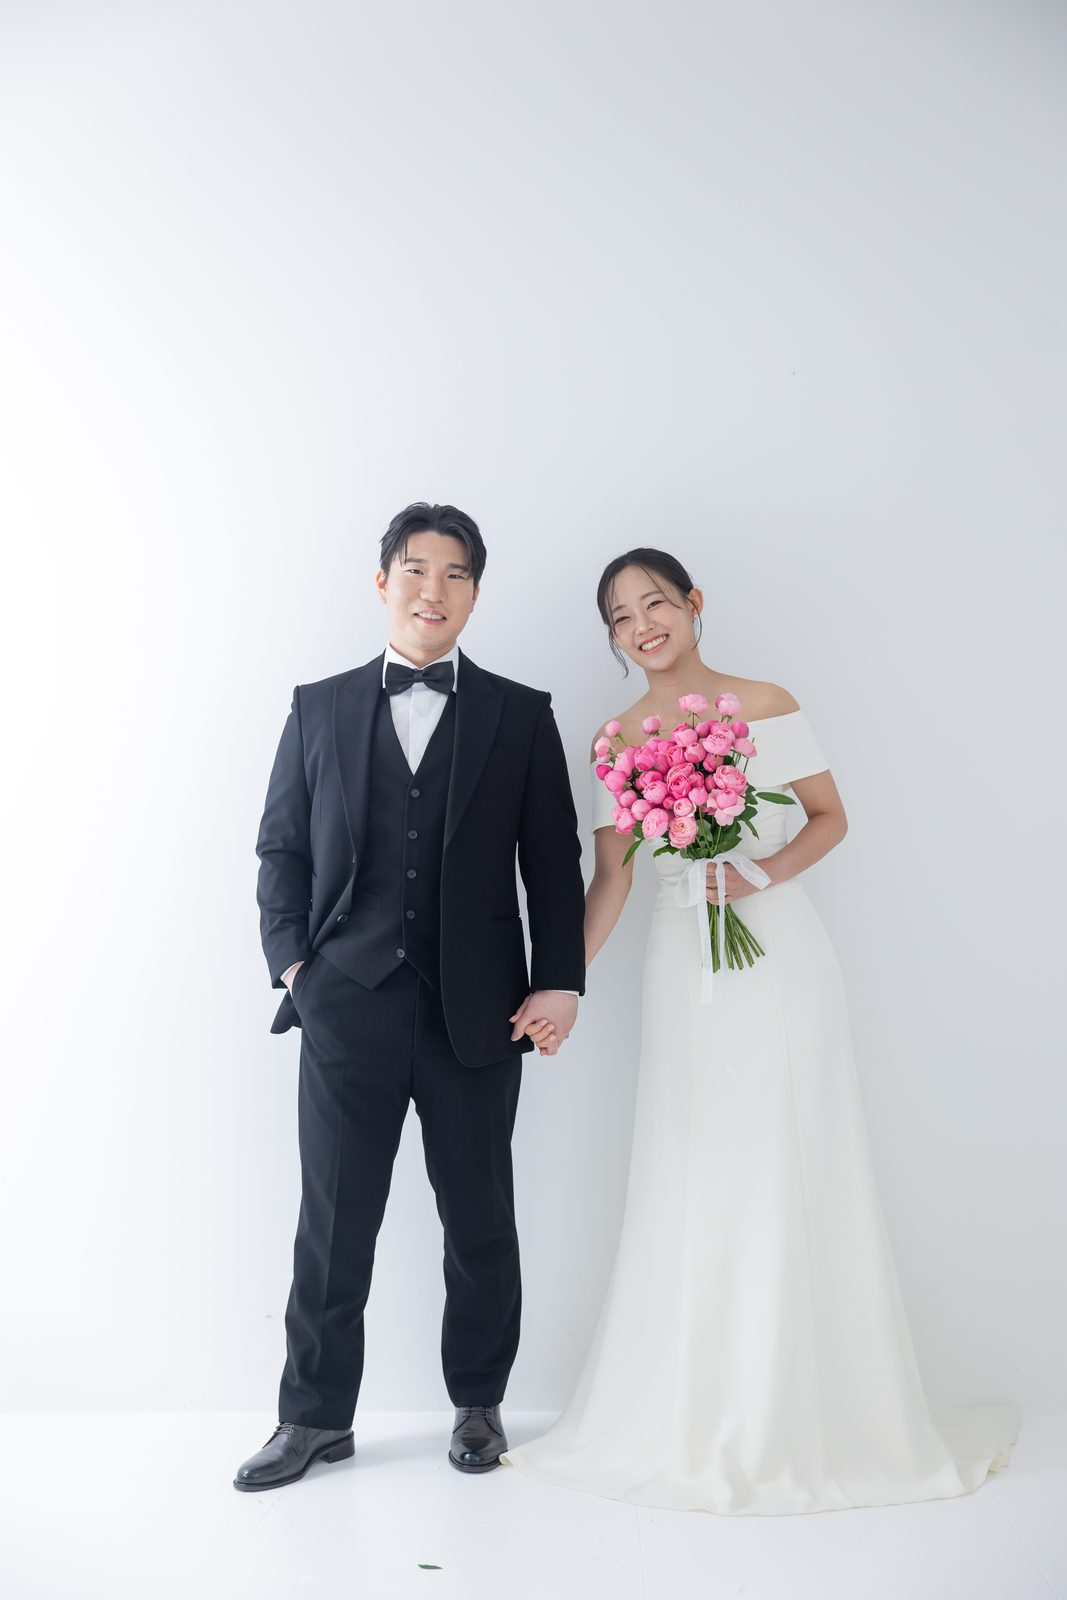
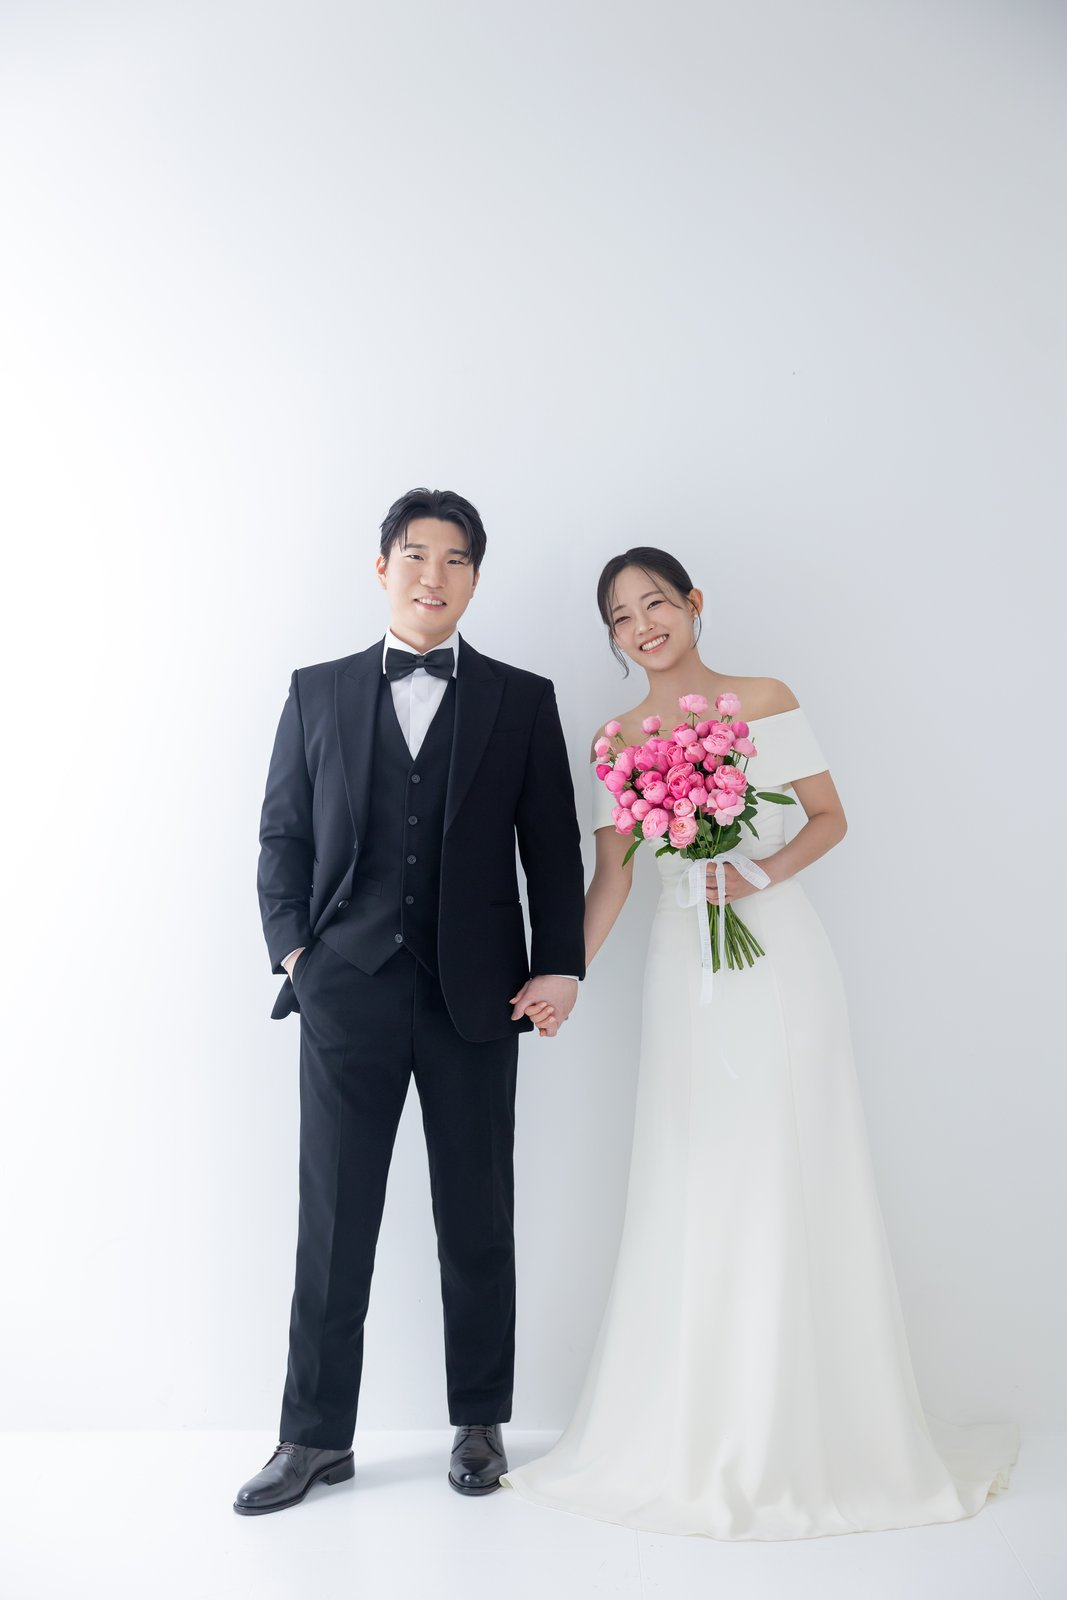
서울 사진 12장으로 교체
Claude-Session: https://claude.ai/code/session_01NCanrcdHfTAWPxPeJGYshp

diff --git a/index.html b/index.html
@@ -371,9 +371,9 @@ var RSVP_URL = 'https://docs.google.com/forms/d/e/1FAIpQLSc7h8CQqF88eNU5bpTkrGZw
     tb.setAttribute('role','tab');tb.setAttribute('aria-selected',k===0?'true':'false');tb.dataset.k=k;tabs.appendChild(tb);
     var grid=document.createElement('div');grid.className='gal';grid.setAttribute('role','tabpanel');grid.dataset.k=k;if(k>0)grid.hidden=true;
     for(var g=1;g<=G.count;g++){
-      var n=String(g).padStart(2,'0');list.push(G.dir+n+'.jpg?v=5');
+      var n=String(g).padStart(2,'0');list.push(G.dir+n+'.jpg?v=6');
       var b=document.createElement('button');b.type='button';b.dataset.i=g-1;b.setAttribute('aria-label',(G.tab||G.title)+' '+g+'번 사진 크게 보기');
-      b.innerHTML='<span>'+g+'</span><img src="'+G.dir+'t_'+n+'.jpg?v=5" alt="" loading="'+(k===0?'lazy':'eager')+'" onerror="this.remove()">';
+      b.innerHTML='<span>'+g+'</span><img src="'+G.dir+'t_'+n+'.jpg?v=6" alt="" loading="'+(k===0?'lazy':'eager')+'" onerror="this.remove()">';
       grid.appendChild(b);
     }
     gals.appendChild(grid);
